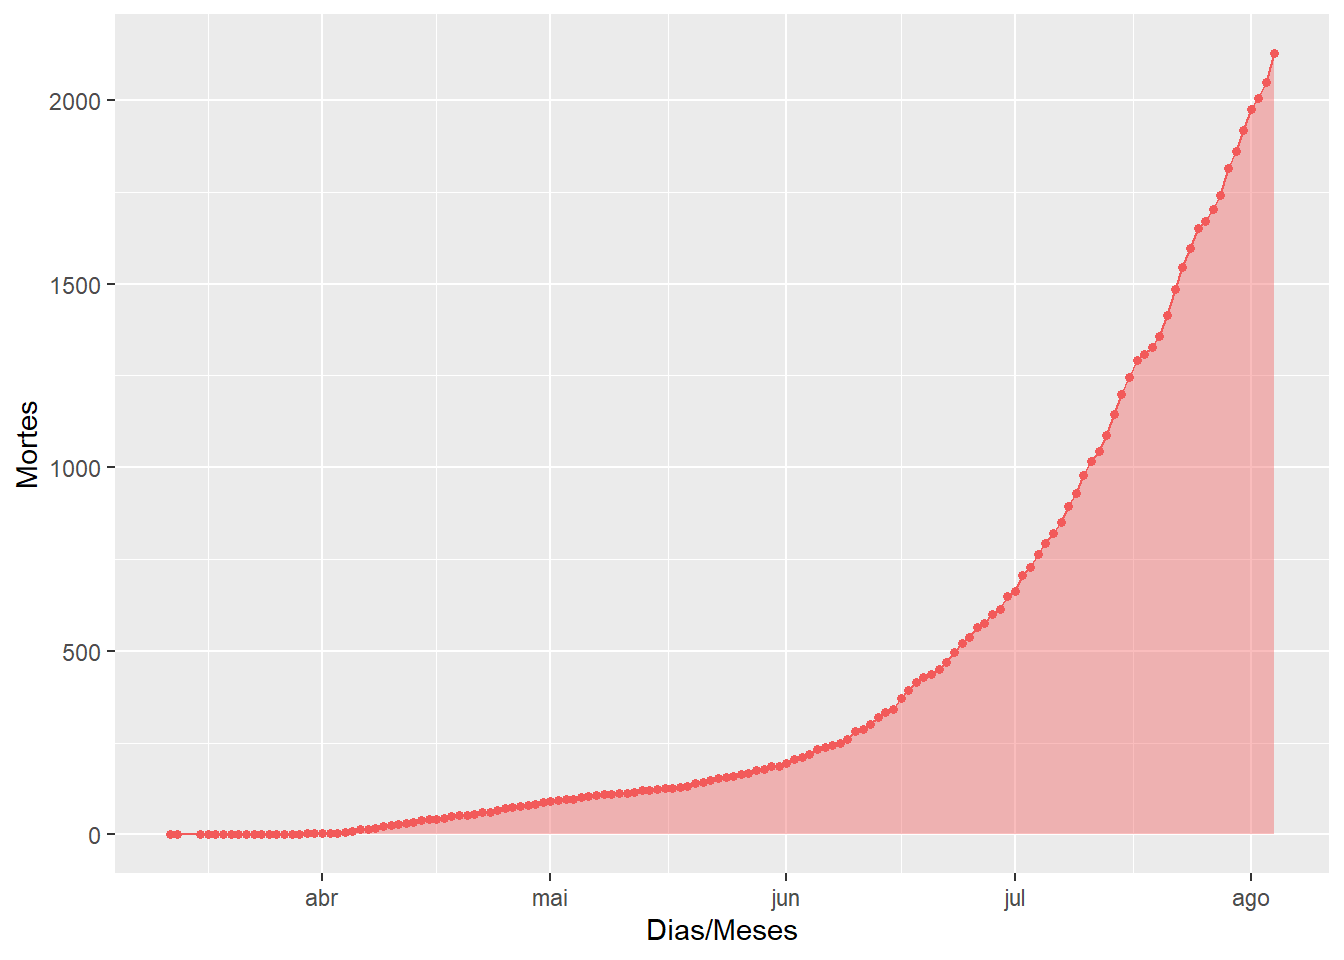
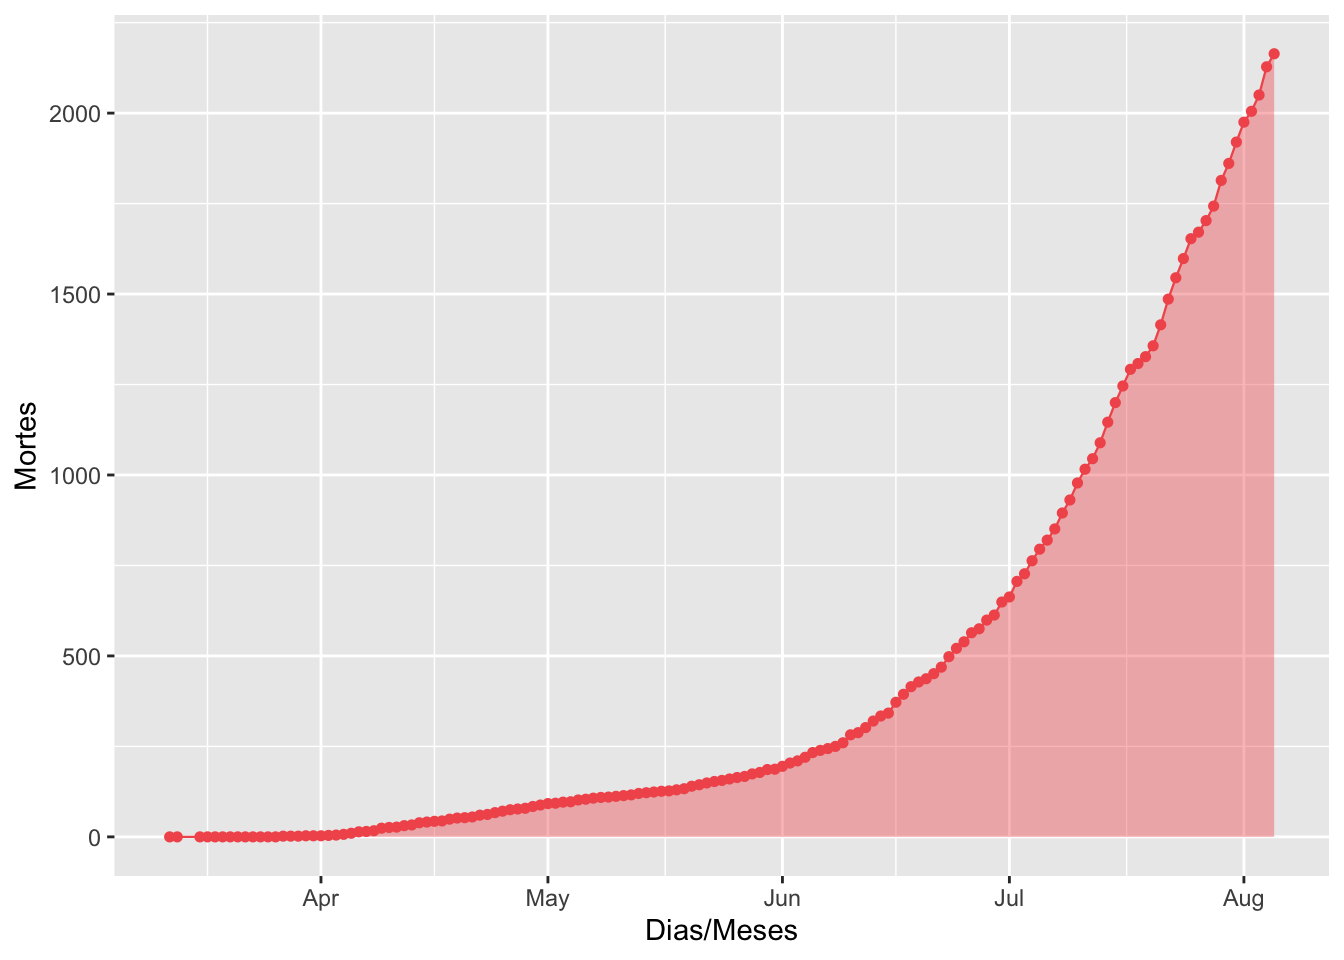
Adição das imagens e alterações no texto

diff --git a/content/blog/2020-08-05-tutorial-para-análise-covid-19.html b/content/blog/2020-08-05-tutorial-para-análise-covid-19.html
@@ -11,15 +11,15 @@ tags:
   - site
 description: ''
 images:
-  - 'img/covid/chamada.jpg'
+  - 'img/covid/chamada.png'
 ---
 
 
 
 <div id="o-que-é-coronavírus" class="section level1">
 <h1>O que é Coronavírus?</h1>
-<p>O Coronavírus, causador da pandemia global, pertence a uma família de vírus (CoV) que já circula no Brasil. Os vírus dessa família podem causar desde resfriados comuns a doenças mais graves, como a Síndrome Aguda Respiratória Severa (SARS) e a Síndrome Respiratória do Oriente Médio (MERS). O Novo Coronavírus recebeu a denominação SARS-CoV-2 pela Organização Mundial da Saúde (OMS) e a doença que ele provoca tem a denominação COVID-19.</p>
-<p><img src="/blog/2020-08-05-tutorial-para-análise-covid-19_files/corona.jpg" style="width:80.0%;height:60.0%" /></p>
+<p>O Coronavírus, causador da pandemia global, pertence a uma família de vírus (CoV) que já circula no Brasil. Os vírus dessa família podem causar desde resfriados comuns à doenças mais graves, como a Síndrome Aguda Respiratória Severa (SARS) e a Síndrome Respiratória do Oriente Médio (MERS). O Novo Coronavírus recebeu a denominação SARS-CoV-2 pela Organização Mundial da Saúde (OMS) e a doença que ele provoca tem a denominação COVID-19.</p>
+<p><img src="/blog/2020-08-05-tutorial-para-análise-covid-19_files/corona.png" style="width:80.0%;height:60.0%" /></p>
 <div id="mas-o-que-a-estatística-tem-haver-com-essa-doença" class="section level2">
 <h2>Mas o que a estatística tem haver com essa doença?</h2>
 <p>A estatística está presente em todas as ciências e um dos ramos dela é a bioestatística, ajudando especialistas em saúde com modelagem de estudos, análises de eficácia de drogas e até mesmo previsões para população baseado em cálculos e estimativas dos dados. Sendo assim, a estatística é muito importante para esse período vivido pelo nosso país e pelo mundo.</p>
@@ -39,7 +39,7 @@ devtools::install_github(&quot;Freguglia/datacovidbr&quot;)
 #instalando o pacote direto do GitHub que contém as pricipais bases de dados 
 
 library(datacovidbr) #lendo a biblioteca </code></pre>
-<p>Para fazer esse exemplar utilizamos a base de dados da <em>brasilio()</em>, mas no pacote que ensinamos vocês a instalar direto do Git, contém outras bases como a do ministério da saúde chamada de <em>brMinisterioSaude()</em> entre outras.</p>
+<p>Para fazer esse exemplar utilizamos a base de dados da <em>brasilio()</em>, mas no pacote que ensinamos vocês a instalar direto do Git, contém outras bases como a do Ministério da Saúde chamada de <em>brMinisterioSaude()</em> entre outras.</p>
 </div>
 <div id="quais-os-primeiros-passos-para-começar-a-analisar" class="section level2">
 <h2>Quais os primeiros passos para começar a analisar?</h2>
@@ -49,64 +49,60 @@ library(datacovidbr) #lendo a biblioteca </code></pre>
 <pre class="r"><code>library(tidyverse) #utilizado para fazer as manipulações dos dados
 
 dados &lt;- brasilio()#atribuindo nossa base de dados para uma variável
-dados</code></pre>
-<pre><code>## # A tibble: 465,042 x 12
-##    date       state city  place_type confirmed deaths order_for_place is_last
-##    &lt;date&gt;     &lt;chr&gt; &lt;chr&gt; &lt;chr&gt;          &lt;dbl&gt;  &lt;dbl&gt;           &lt;dbl&gt; &lt;lgl&gt;  
-##  1 2020-08-04 AP    &lt;NA&gt;  state          36999    581             137 TRUE   
-##  2 2020-08-03 AP    &lt;NA&gt;  state          36804    576             136 FALSE  
-##  3 2020-08-02 AP    &lt;NA&gt;  state          36639    571             135 FALSE  
-##  4 2020-08-01 AP    &lt;NA&gt;  state          36595    568             134 FALSE  
-##  5 2020-07-31 AP    &lt;NA&gt;  state          36468    565             133 FALSE  
-##  6 2020-07-30 AP    &lt;NA&gt;  state          36272    561             132 FALSE  
-##  7 2020-07-29 AP    &lt;NA&gt;  state          35973    559             131 FALSE  
-##  8 2020-07-28 AP    &lt;NA&gt;  state          35697    558             130 FALSE  
-##  9 2020-07-27 AP    &lt;NA&gt;  state          35364    556             129 FALSE  
-## 10 2020-07-26 AP    &lt;NA&gt;  state          35220    554             128 FALSE  
-## # ... with 465,032 more rows, and 4 more variables:
-## #   estimated_population_2019 &lt;dbl&gt;, city_ibge_code &lt;dbl&gt;,
-## #   confirmed_per_100k_inhabitants &lt;dbl&gt;, death_rate &lt;dbl&gt;</code></pre>
+head(dados)</code></pre>
+<pre><code>## # A tibble: 6 x 12
+##   date       state city  place_type confirmed deaths order_for_place is_last
+##   &lt;date&gt;     &lt;chr&gt; &lt;chr&gt; &lt;chr&gt;          &lt;dbl&gt;  &lt;dbl&gt;           &lt;dbl&gt; &lt;lgl&gt;  
+## 1 2020-08-05 AC    &lt;NA&gt;  state          21033    547             142 TRUE   
+## 2 2020-08-04 AC    &lt;NA&gt;  state          20710    545             141 FALSE  
+## 3 2020-08-03 AC    &lt;NA&gt;  state          20339    539             140 FALSE  
+## 4 2020-08-02 AC    &lt;NA&gt;  state          19966    537             139 FALSE  
+## 5 2020-08-01 AC    &lt;NA&gt;  state          19930    535             138 FALSE  
+## 6 2020-07-31 AC    &lt;NA&gt;  state          19625    531             137 FALSE  
+## # … with 4 more variables: estimated_population_2019 &lt;dbl&gt;,
+## #   city_ibge_code &lt;dbl&gt;, confirmed_per_100k_inhabitants &lt;dbl&gt;,
+## #   death_rate &lt;dbl&gt;</code></pre>
 <ul>
 <li>Mas se o passo anterior não ficou muito claro e não temos o conhecimento de quais são as classes e tipos de variáveis que estamos lidando, usamos a função <em>summary()</em> que nos retorna essas informações entre outras.</li>
 </ul>
 <pre class="r"><code>summary(dados)</code></pre>
 <pre><code>##       date               state               city            place_type       
-##  Min.   :2020-02-25   Length:465042      Length:465042      Length:465042     
+##  Min.   :2020-02-25   Length:467197      Length:467197      Length:467197     
 ##  1st Qu.:2020-05-25   Class :character   Class :character   Class :character  
 ##  Median :2020-06-20   Mode  :character   Mode  :character   Mode  :character  
 ##  Mean   :2020-06-16                                                           
-##  3rd Qu.:2020-07-12                                                           
-##  Max.   :2020-08-04                                                           
+##  3rd Qu.:2020-07-13                                                           
+##  Max.   :2020-08-05                                                           
 ##                                                                               
-##    confirmed          deaths         order_for_place   is_last       
-##  Min.   :     0   Min.   :    0.00   Min.   :  1.00   Mode :logical  
-##  1st Qu.:     3   1st Qu.:    0.00   1st Qu.: 22.00   FALSE:459511   
-##  Median :    17   Median :    0.00   Median : 44.00   TRUE :5531     
-##  Mean   :   469   Mean   :   19.86   Mean   : 47.57                  
-##  3rd Qu.:    88   3rd Qu.:    2.00   3rd Qu.: 70.00                  
-##  Max.   :575589   Max.   :23702.00   Max.   :160.00                  
-##                                                                      
+##    confirmed            deaths         order_for_place   is_last       
+##  Min.   :     0.0   Min.   :    0.00   Min.   :  1.00   Mode :logical  
+##  1st Qu.:     3.0   1st Qu.:    0.00   1st Qu.: 22.00   FALSE:461664   
+##  Median :    17.0   Median :    0.00   Median : 44.00   TRUE :5533     
+##  Mean   :   475.6   Mean   :   20.07   Mean   : 47.76                  
+##  3rd Qu.:    88.0   3rd Qu.:    2.00   3rd Qu.: 70.00                  
+##  Max.   :585265.0   Max.   :24109.00   Max.   :161.00                  
+##                                                                        
 ##  estimated_population_2019 city_ibge_code    confirmed_per_100k_inhabitants
 ##  Min.   :     781          Min.   :     11   Min.   :    0.002             
-##  1st Qu.:    7067          1st Qu.:2500908   1st Qu.:   31.376             
-##  Median :   15588          Median :3137205   Median :  132.129             
-##  Mean   :  120558          Mean   :3162523   Mean   :  393.834             
-##  3rd Qu.:   34780          3rd Qu.:4107652   3rd Qu.:  456.148             
+##  1st Qu.:    7066          1st Qu.:2501153   1st Qu.:   31.626             
+##  Median :   15579          Median :3137601   Median :  133.414             
+##  Mean   :  120653          Mean   :3163521   Mean   :  396.537             
+##  3rd Qu.:   34775          3rd Qu.:4107900   3rd Qu.:  460.668             
 ##  Max.   :45919049          Max.   :5300108   Max.   :15730.064             
-##  NA&#39;s   :2126              NA&#39;s   :2126      NA&#39;s   :12603                 
+##  NA&#39;s   :2134              NA&#39;s   :2134      NA&#39;s   :12620                 
 ##    death_rate     
 ##  Min.   :0.00000  
 ##  1st Qu.:0.00000  
 ##  Median :0.00000  
-##  Mean   :0.04582  
-##  3rd Qu.:0.03950  
+##  Mean   :0.04573  
+##  3rd Qu.:0.03940  
 ##  Max.   :1.00000  
 ## </code></pre>
 </div>
 </div>
 <div id="análise-gráfica" class="section level1">
 <h1>Análise gráfica</h1>
-<p>Nessa etapa mostraremos dois gráficos de acumulação para os casos de confirmação e mortes da doença no Estado do <strong>Paraná</strong>.
+<p>Nessa etapa mostraremos dois gráficos cumulativos para os casos de confirmação e mortes da doença no Estado do <strong>Paraná</strong>.
 Vale ressaltar que esse material é apenas uma fonte de ajuda para quem gostaria de fazer análises da COVID-19 e não encontra dados ou até mesmo tem dificuldades para isso.</p>
 <div id="como-analisar-graficamente-esses-dados" class="section level2">
 <h2>Como analisar graficamente esses dados?</h2>
@@ -117,23 +113,24 @@ Vale ressaltar que esse material é apenas uma fonte de ajuda para quem gostaria
 #dentro da coluna state pegamos apenas os dados que forem igual a PR
 
 dados.pr &lt;- dados.cidades%&gt;%filter(dados.cidades$place_type ==&quot;state&quot;)
-#selecionamos dentro da variável dados.cidades apenas os dados que contém o tipo de local igual a state
+#selecionamos dentro da variável dados.cidades apenas os dados que contém o tipo de local
+#igual a state
 
 dados.cidades #visualizando os dados</code></pre>
-<pre><code>## # A tibble: 27,763 x 12
+<pre><code>## # A tibble: 27,764 x 12
 ##    date       state city  place_type confirmed deaths order_for_place is_last
 ##    &lt;date&gt;     &lt;chr&gt; &lt;chr&gt; &lt;chr&gt;          &lt;dbl&gt;  &lt;dbl&gt;           &lt;dbl&gt; &lt;lgl&gt;  
-##  1 2020-08-04 PR    &lt;NA&gt;  state          82718   2128             144 TRUE   
-##  2 2020-08-03 PR    &lt;NA&gt;  state          80865   2050             143 FALSE  
-##  3 2020-08-02 PR    &lt;NA&gt;  state          79605   2005             142 FALSE  
-##  4 2020-08-01 PR    &lt;NA&gt;  state          77930   1975             141 FALSE  
-##  5 2020-07-31 PR    &lt;NA&gt;  state          76112   1920             140 FALSE  
-##  6 2020-07-30 PR    &lt;NA&gt;  state          73488   1861             139 FALSE  
-##  7 2020-07-29 PR    &lt;NA&gt;  state          70920   1814             138 FALSE  
-##  8 2020-07-28 PR    &lt;NA&gt;  state          69392   1743             137 FALSE  
-##  9 2020-07-27 PR    &lt;NA&gt;  state          68001   1703             136 FALSE  
-## 10 2020-07-26 PR    &lt;NA&gt;  state          67220   1671             135 FALSE  
-## # ... with 27,753 more rows, and 4 more variables:
+##  1 2020-08-05 PR    &lt;NA&gt;  state          85317   2164             145 TRUE   
+##  2 2020-08-04 PR    &lt;NA&gt;  state          82718   2128             144 FALSE  
+##  3 2020-08-03 PR    &lt;NA&gt;  state          80865   2050             143 FALSE  
+##  4 2020-08-02 PR    &lt;NA&gt;  state          79605   2005             142 FALSE  
+##  5 2020-08-01 PR    &lt;NA&gt;  state          77930   1975             141 FALSE  
+##  6 2020-07-31 PR    &lt;NA&gt;  state          76112   1920             140 FALSE  
+##  7 2020-07-30 PR    &lt;NA&gt;  state          73488   1861             139 FALSE  
+##  8 2020-07-29 PR    &lt;NA&gt;  state          70920   1814             138 FALSE  
+##  9 2020-07-28 PR    &lt;NA&gt;  state          69392   1743             137 FALSE  
+## 10 2020-07-27 PR    &lt;NA&gt;  state          68001   1703             136 FALSE  
+## # … with 27,754 more rows, and 4 more variables:
 ## #   estimated_population_2019 &lt;dbl&gt;, city_ibge_code &lt;dbl&gt;,
 ## #   confirmed_per_100k_inhabitants &lt;dbl&gt;, death_rate &lt;dbl&gt;</code></pre>
 <ul>
@@ -151,7 +148,7 @@ library(plotly)#biblioteca para análise gráfica</code></pre>
   geom_point(aes(y = confirmed), color = &quot;#35b779&quot;, size = 1.3) 
 
 graph_conf  </code></pre>
-<p><img src="/blog/2020-08-05-tutorial-para-análise-covid-19_files/figure-html/unnamed-chunk-6-1.png" width="672" /></p>
+<p><img src="/blog/2020-08-05-tutorial-para-an%C3%A1lise-covid-19_files/figure-html/unnamed-chunk-6-1.png" width="672" /></p>
 <p>Gráfico acumulado do número de confirmações de óbitos por COVID-19 no estado do Paraná.</p>
 <pre class="r"><code>graph_deaths &lt;- dados.pr %&gt;%
   ggplot(aes(x=date)) +
@@ -162,12 +159,12 @@ graph_conf  </code></pre>
   geom_point(aes(y = deaths), color = &quot;#f25a5a&quot;, size = 1.3)
 
 graph_deaths</code></pre>
-<p><img src="/blog/2020-08-05-tutorial-para-análise-covid-19_files/figure-html/unnamed-chunk-7-1.png" width="672" /></p>
+<p><img src="/blog/2020-08-05-tutorial-para-an%C3%A1lise-covid-19_files/figure-html/unnamed-chunk-7-1.png" width="672" /></p>
 </div>
 </div>
 <div id="conscientização-de-todos" class="section level1">
 <h1>Conscientização de todos</h1>
 <p>Para concluir este material gostaríamos de pedir a conscientização de todos, saia de casa apenas se for muito necessário e se sair utilize a máscara e higienize suas mãos.
 Estamos passando por uma situação muito complicada mundialmente, mas se fizermos nossa parte isso acabará rápido e sem maiores problemáticas.</p>
-<p><img src="/blog/2020-08-05-tutorial-para-análise-covid-19_files/consciencia.jpg" style="width:60.0%;height:70.0%" /></p>
+<p><img src="/blog/2020-08-05-tutorial-para-análise-covid-19_files/consciencia.png" style="width:60.0%;height:70.0%" /></p>
 </div>
